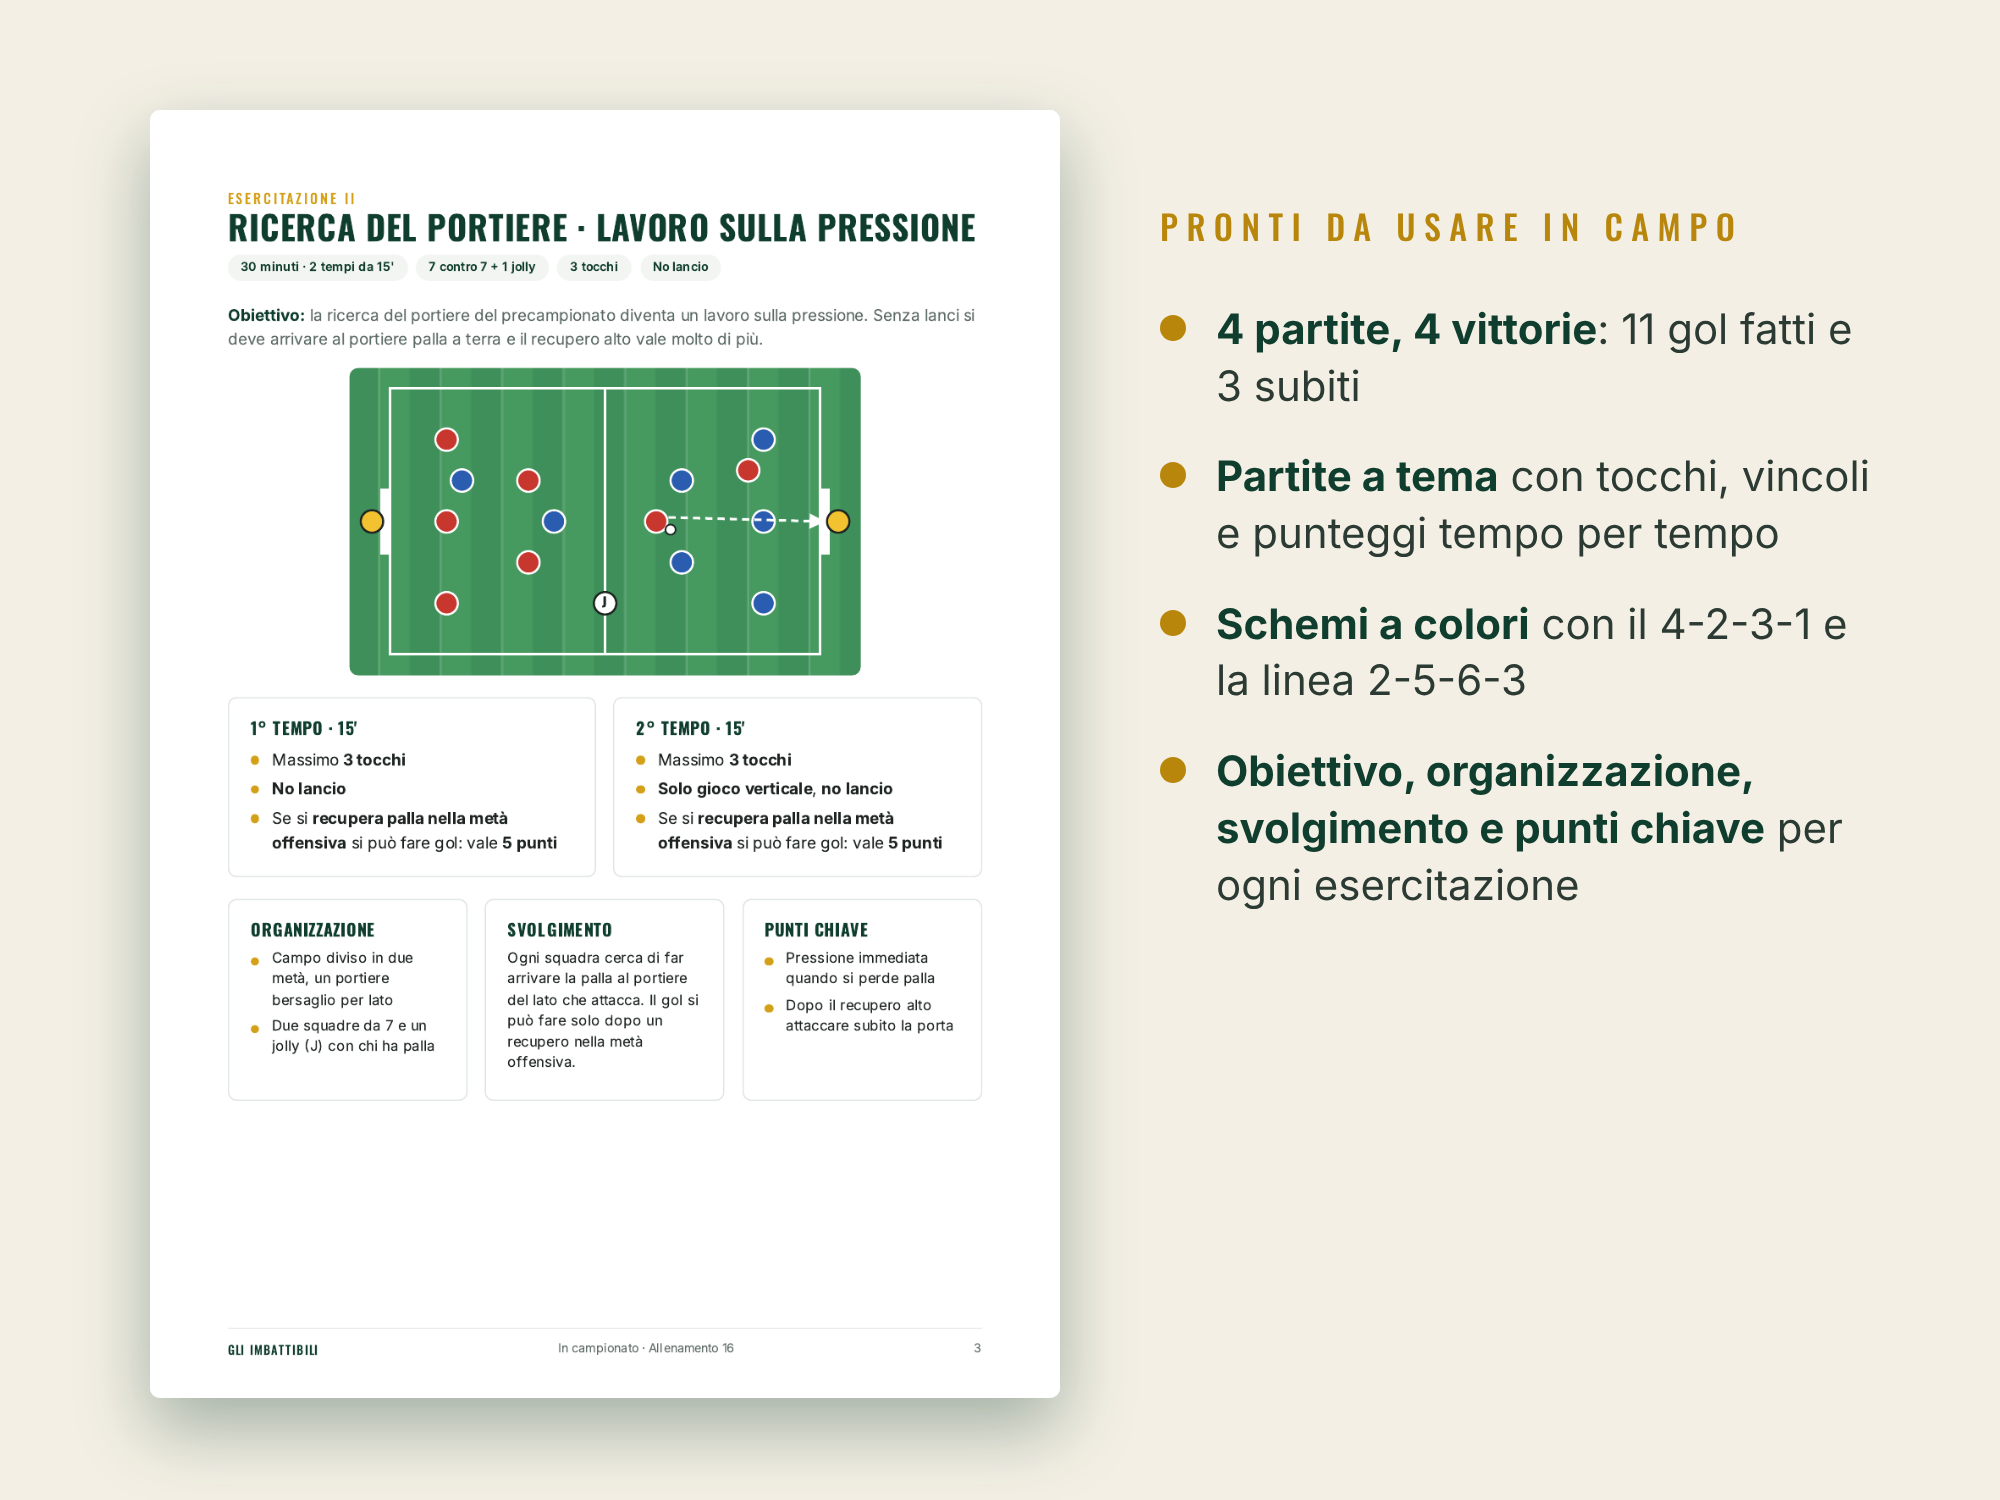
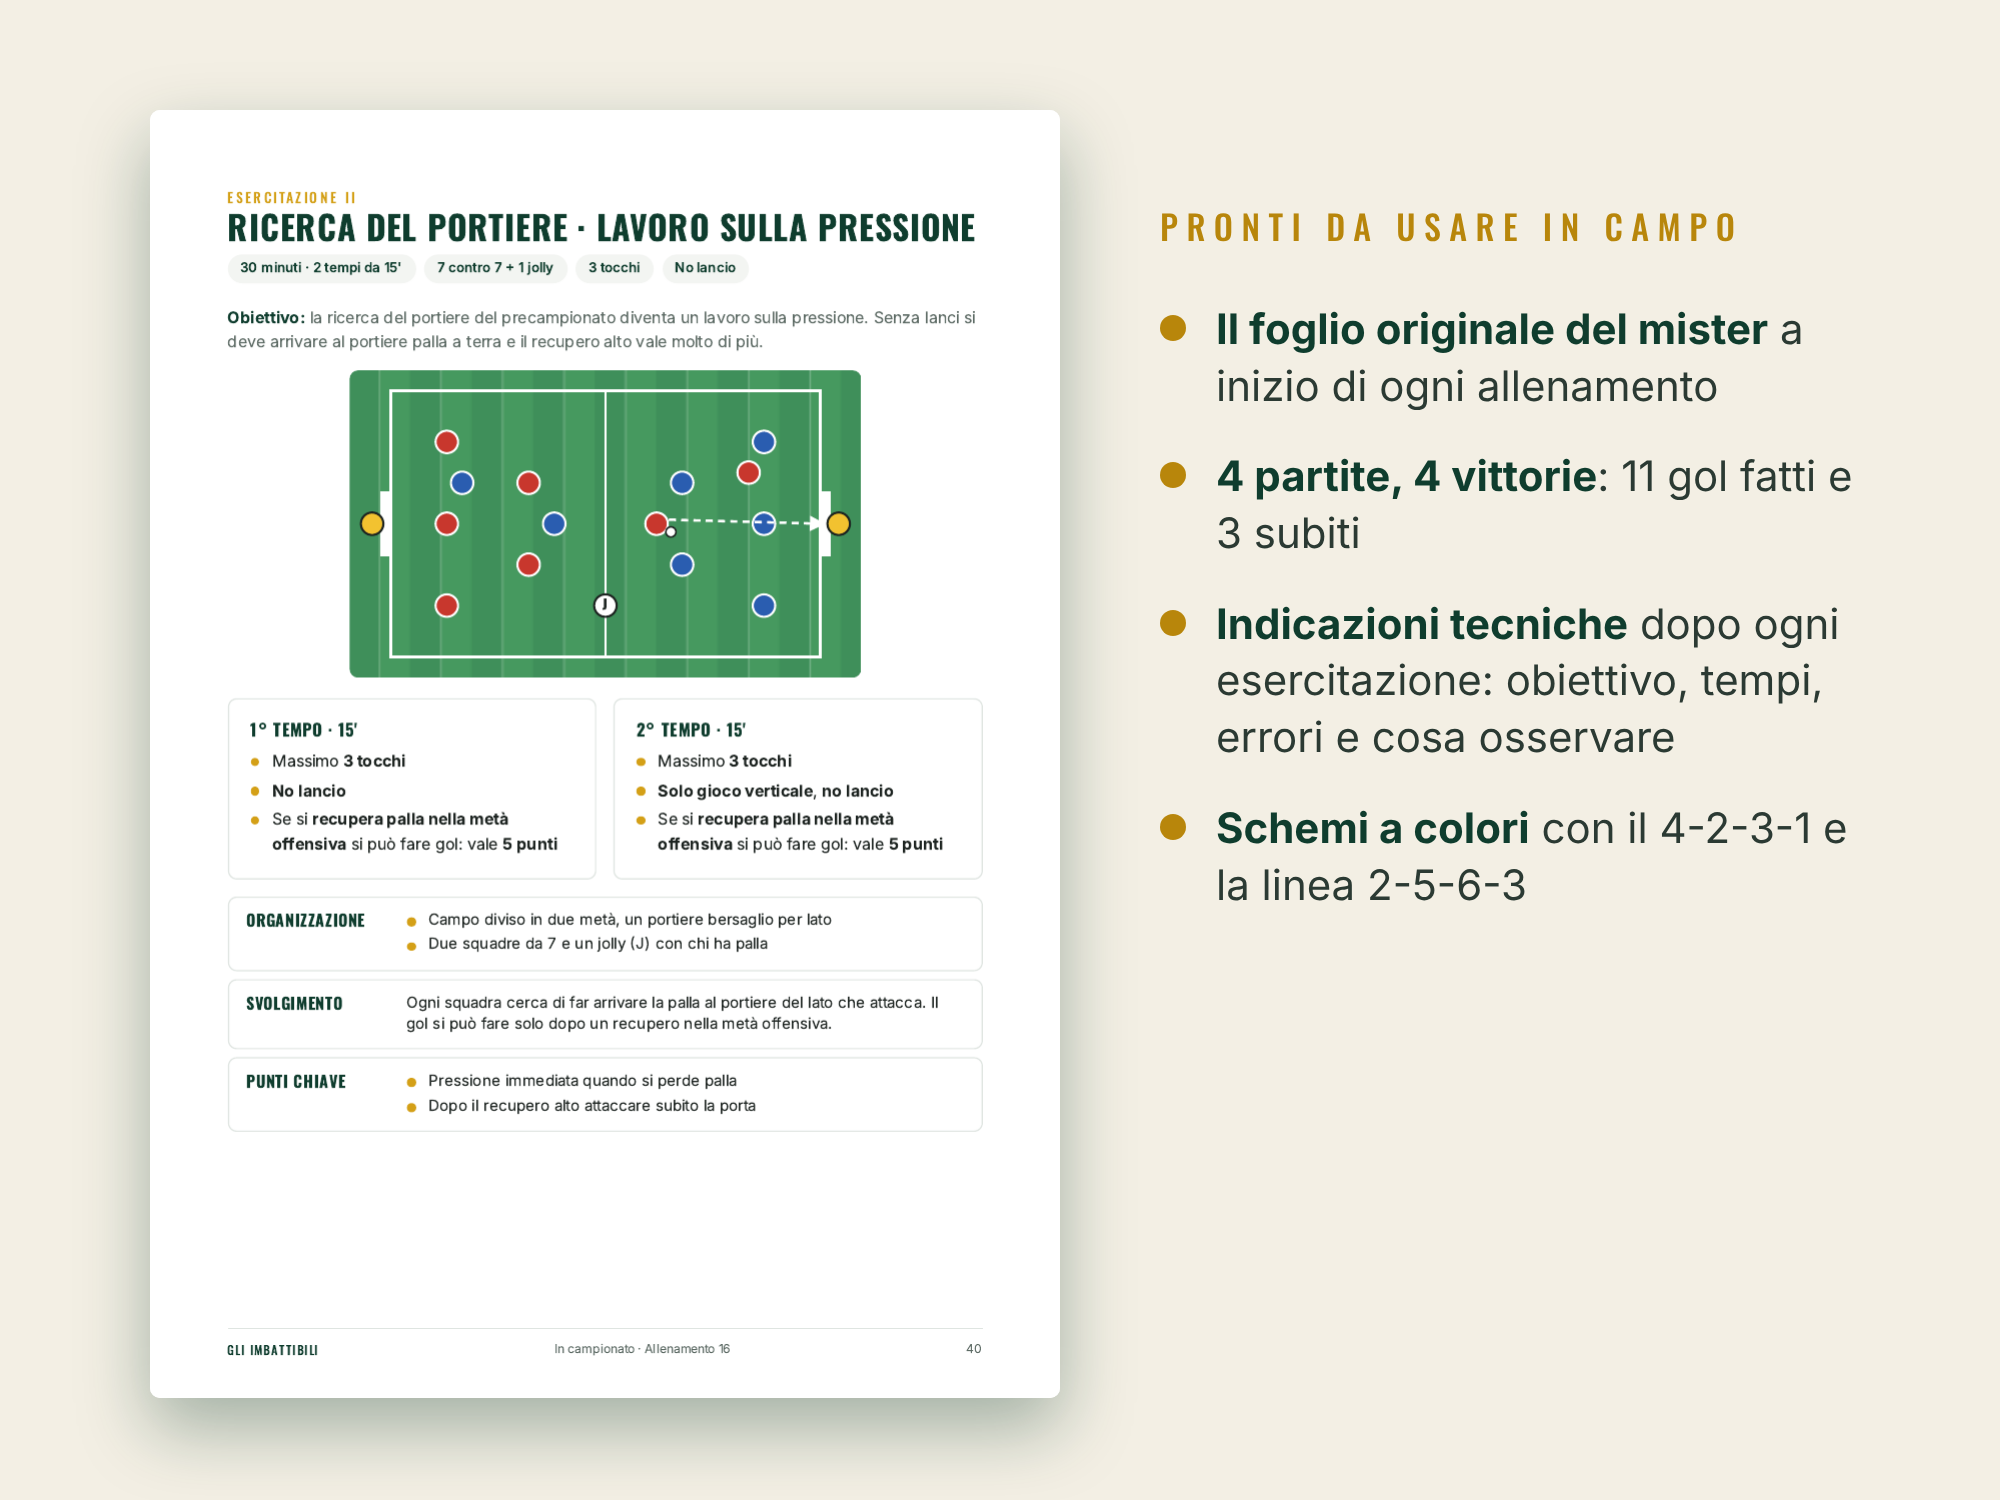
Annuncio In campionato: 64 pagine, foto e descrizione aggiornate
Claude-Session: https://claude.ai/code/session_01SKxmbbNKCopJuCUrYoDZaV

diff --git a/marketing/etsy/immagini-annuncio-campionato.html b/marketing/etsy/immagini-annuncio-campionato.html
@@ -46,13 +46,13 @@ p.sub b, .punti b { color: #0f3d2e !important; }
 <body>
 <!-- 1. Copertina -->
 <div class="slide">
-  <img class="pag" src="pagine-campionato/p-1-01.png" style="left:150px;top:130px;width:880px;transform:rotate(-3deg)">
+  <img class="pag" src="pagine-campionato/n-1-01.png" style="left:150px;top:130px;width:880px;transform:rotate(-3deg)">
   <div style="position:absolute;left:1120px;right:110px;top:230px">
     <div class="kick">In campionato</div>
     <h1 style="margin:30px 0 30px">Gli<span>Imbattibili</span></h1>
     <div style="display:inline-block;background:#b8860b;color:#fff;font-family:Oswald;font-weight:700;text-transform:uppercase;font-size:64px;line-height:1.05;padding:24px 36px;border-radius:16px;margin-bottom:40px">Dopo la preparazione:<br>le prime 4 settimane</div>
     <p class="sub"><b style="color:#fff">9 allenamenti</b> della Juniores che ha vinto il campionato provinciale <b style="color:#fff">senza perdere una partita</b>.</p>
-    <div style="margin-top:60px"><span class="badge">PDF · 46 pagine</span></div>
+    <div style="margin-top:60px"><span class="badge">PDF · 64 pagine</span></div>
   </div>
 </div>
 
@@ -80,21 +80,21 @@ p.sub b, .punti b { color: #0f3d2e !important; }
     <div class="kick">Dentro il PDF</div>
     <h2 style="margin-top:20px">Ogni seduta e ogni partita</h2>
   </div>
-  <img class="pag" src="pagine-campionato/p-13-13.png" style="left:160px;top:420px;width:620px;transform:rotate(-5deg)">
-  <img class="pag" src="pagine-campionato/p-17-17.png" style="left:1220px;top:420px;width:620px;transform:rotate(5deg)">
-  <img class="pag" src="pagine-campionato/p-30-30.png" style="left:690px;top:360px;width:640px">
+  <img class="pag" src="pagine-campionato/n-16-16.png" style="left:160px;top:420px;width:620px;transform:rotate(-5deg)">
+  <img class="pag" src="pagine-campionato/n-40-40.png" style="left:1220px;top:420px;width:620px;transform:rotate(5deg)">
+  <img class="pag" src="pagine-campionato/n-37-37.png" style="left:690px;top:360px;width:640px">
 </div>
 
 <!-- 4. Schemi e regole -->
 <div class="slide">
-  <img class="pag" src="pagine-campionato/p-30-30.png" style="left:150px;top:110px;width:910px">
+  <img class="pag" src="pagine-campionato/n-40-40.png" style="left:150px;top:110px;width:910px">
   <div style="position:absolute;left:1160px;right:110px;top:200px">
     <div class="kick">Pronti da usare in campo</div>
     <ul class="punti">
+      <li><b>Il foglio originale del mister</b> a inizio di ogni allenamento</li>
       <li><b>4 partite, 4 vittorie</b>: 11 gol fatti e 3 subiti</li>
-      <li><b>Partite a tema</b> con tocchi, vincoli e punteggi tempo per tempo</li>
+      <li><b>Indicazioni tecniche</b> dopo ogni esercitazione: obiettivo, tempi, errori e cosa osservare</li>
       <li><b>Schemi a colori</b> con il 4-2-3-1 e la linea 2-5-6-3</li>
-      <li><b>Obiettivo, organizzazione, svolgimento e punti chiave</b> per ogni esercitazione</li>
     </ul>
   </div>
 </div>

diff --git a/marketing/etsy/annuncio-campionato.md b/marketing/etsy/annuncio-campionato.md
@@ -4,8 +4,8 @@ Bozza di Claude del 12/10/2026, da far controllare all'allenatore. Il testo vien
 
 ## Da caricare
 
-- **File digitale**: `prodotti/gli-imbattibili/campionato-allenamenti-11-19.pdf` (46 pagine, 3,9 MB: sotto il limite di 20 MB di Etsy)
-- **Foto**: pronte il 15/10 in `marketing/etsy/immagini/campionato-1..4.png` (2000 × 1500): copertina, cosa c'è dentro, pagine di esempio, schemi e regole
+- **File digitale**: `prodotti/gli-imbattibili/campionato-allenamenti-11-19.pdf` (64 pagine, 3,5 MB: sotto il limite di 20 MB di Etsy; revisione del 23/10, caricare con il nome `Gli-Imbattibili_In-campionato_11-19.pdf`)
+- **Foto**: aggiornate il 29/10 (64 pagine, pagine nuove) in `marketing/etsy/immagini/campionato-1..4.png` (2000 × 1500): copertina, cosa c'è dentro, pagine di esempio, schemi e regole
 - **Tipo**: download digitale · fatto da me · prodotto finito
 - **Prezzo**: 8,11 € (Etsy aggiunge l'IVA al 22% per i compratori italiani: 9,89 €)
 - **Categoria**: la stessa del Precampionato
@@ -22,12 +22,15 @@ Non sono esercizi presi da internet. Sono gli allenamenti fatti davvero in campo
 
 In campionato la settimana cambia: si lavora il lunedì e il giovedì. Dopo ogni giovedì trovi la partita del fine settimana, con il risultato e le statistiche, così si vede cosa è successo in campo dopo il lavoro della settimana. Quattro partite, quattro vittorie, 11 gol fatti e 3 subiti.
 
-COSA TROVI NEL PDF (46 pagine)
+COSA TROVI NEL PDF (64 pagine)
 
-- 9 allenamenti completi, ognuno con la scheda della seduta: durata, programma e barra dei tempi
+- 9 allenamenti completi, ognuno aperto dal foglio originale scritto a mano dal mister
+- La scheda della seduta: durata, programma e barra dei tempi
 - Una pagina per ogni esercitazione con obiettivo, schema a colori, organizzazione, svolgimento e punti chiave
+- Dopo ogni esercitazione principale, le indicazioni tecniche: obiettivo, tempi effettivi, errori da evitare e comportamenti da osservare
 - Le partite a tema con le regole tempo per tempo: tocchi, vincoli e punteggi
 - 4 pagine partita con risultato e statistiche del fine settimana
+- Tre livelli sempre distinti: dal quaderno, precisato dall'autore, consigliato
 - Rapidità, corsa con variazioni di velocità e lavoro atletico con tempi e ripetizioni
 
 GLI ALLENAMENTI
